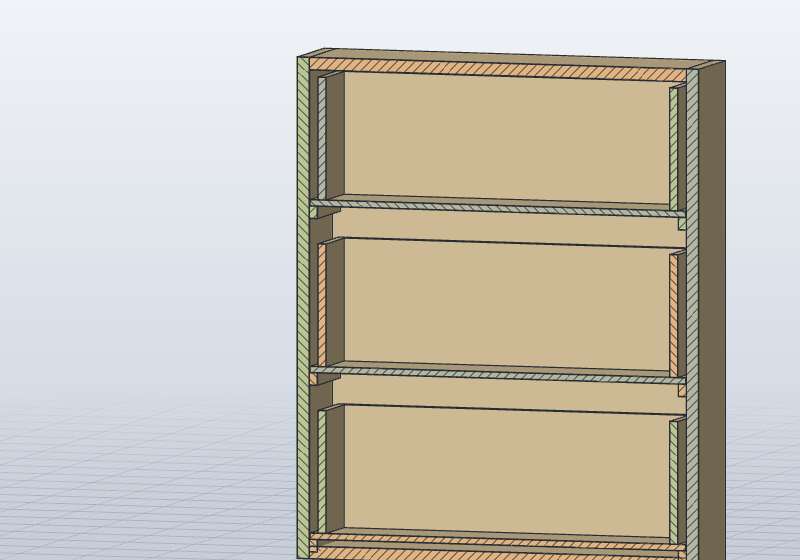
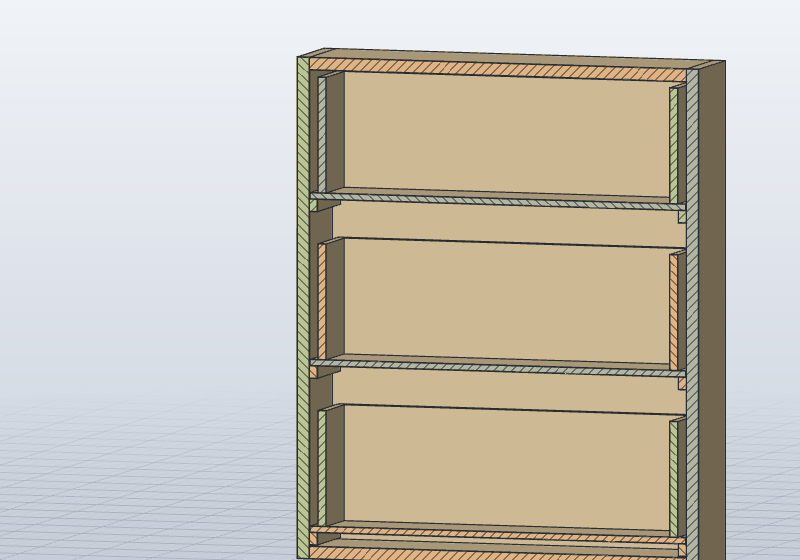
Strip runners: size settings, clear of the carcass bottom, play checked, cut list by the last Drawer

Changed region(s): [[0.375, 0.9107, 0.875, 1.0], [0.375, 0.6071, 0.875, 0.6982], [0.375, 0.3339, 0.875, 0.425]]

diff --git a/src/cutlist/tests.rs b/src/cutlist/tests.rs
@@ -815,3 +815,50 @@ fn glass_panes_are_bought_by_size() {
         json!([{"item": "Glass, 4 mm, 612 x 492 mm", "qty": 1}])
     );
 }
+
+#[test]
+fn drawers_on_strips_or_runners_count_no_slides() {
+    let named =
+        |names: &[&str]| -> Vec<Value> { names.iter().map(|n| json!({"name": n})).collect() };
+    let pairs = |list: &Value| -> u64 {
+        (list.as_array().into_iter().flatten())
+            .filter(|h| h["item"] == "Drawer slide, pair")
+            .filter_map(|h| h["qty"].as_u64())
+            .sum()
+    };
+    // A's drawer 1 on strips, drawer 2 on slides; a cabinet named with ` Drawer ` in it too
+    let bodies = named(&[
+        "A Drawer 1 Front",
+        "A Side L strip 1",
+        "A Drawer 2 Front",
+        "B Drawer C Drawer 1 Front",
+        "B Drawer C Side L strip 1",
+    ]);
+    let list = hardware(
+        &json!({"bodies": bodies}),
+        &BTreeMap::new(),
+        &json!({"timeline": []}),
+    );
+    assert_eq!(pairs(&list), 1, "{list}");
+    // without the strip it counts again
+    let bodies = named(&["A Drawer 1 Front"]);
+    assert_eq!(
+        pairs(&hardware(
+            &json!({"bodies": bodies}),
+            &BTreeMap::new(),
+            &json!({"timeline": []})
+        )),
+        1
+    );
+    // a groove (dado runners) is a feature, also under such a name
+    let design = json!({"timeline": named(&["B Drawer C Side L runner 1"])});
+    let bodies = named(&["B Drawer C Drawer 1 Front"]);
+    assert_eq!(
+        pairs(&hardware(
+            &json!({"bodies": bodies}),
+            &BTreeMap::new(),
+            &design
+        )),
+        0
+    );
+}

diff --git a/tests/test_fronts.py b/tests/test_fronts.py
@@ -351,6 +351,8 @@ def test_strip_runners(approval):
     assert (round(bottom[0], 3), round(bottom[3], 3)) == (-300 + 19, 300 - 19), bottom
     assert round(left[0], 3) == -300 + 18 + 13 and round(left[2], 3) == round(bottom[5], 3), left
     assert round(b["Cabinet Side R strip 2"][3], 3) == 300 - 18, b["Cabinet Side R strip 2"]
+    # the lowest strip stands on the carcass bottom, not in it; the box's top is as on slides
+    assert strip[2] >= b["Cabinet Bottom"][5] - 0.01, (strip, b["Cabinet Bottom"])
     # no groove is cut in the sides
     assert not [f["name"] for f in results[4]["timeline"] if " runner " in f["name"]], "grooves"
     assert not [n for n in boxes(results[2], models=True) if n.startswith("HW slide")], "slide models"
@@ -358,6 +360,13 @@ def test_strip_runners(approval):
     assert not [h for h in cutlist["hardware"] if "slide" in h["item"].lower()], cutlist["hardware"]
     parts = [n for p in cutlist["parts"] for n in p["parts"]]
     assert "Cabinet Side L strip 1" in parts and "Cabinet Side R strip 2" in parts, parts
+    # the strips' size from Woodwork settings: 15 x 22 mm, the box 15 + 1 mm clear of each side
+    other = designed(approval, {"slide_type": "strips", "strip_thickness": 15, "strip_height": 22}, [
+        plugin(approval, "cabinet", {"drawers": 1}), MEASURE])
+    b = boxes(other[1])
+    strip = b["Cabinet Side L strip 1"]
+    assert (round(strip[3] - strip[0], 3), round(strip[5] - strip[2], 3)) == (15, 22), strip
+    assert round(b["Cabinet Drawer 1 Left"][0], 3) == -300 + 18 + 16, b["Cabinet Drawer 1 Left"]
 
 
 def test_a_cabinet_sized_by_its_drawers_inside(approval):

diff --git a/src/cutlist/mod.rs b/src/cutlist/mod.rs
@@ -216,11 +216,13 @@ pub fn hardware(measure: &Value, local: &BTreeMap<String, [f64; 3]>, design: &Va
     }
     // a drawer on wooden runners (`<Name> Side L runner <n>`) or strips (`<Name> Side L strip
     // <n>`, a body) has no slides
+    // (split at the last ` Drawer `, as a cabinet's own name may hold one)
     let runners = |b: &String| {
-        let runner = b.replacen(" Drawer ", " Side L runner ", 1);
-        let strip = b.replacen(" Drawer ", " Side L strip ", 1);
-        features.contains(&runner.trim_end_matches(" Front").to_string())
-            || bodies.contains(&strip.trim_end_matches(" Front").to_string())
+        let Some((cabinet, n)) = b.trim_end_matches(" Front").rsplit_once(" Drawer ") else {
+            return false;
+        };
+        features.contains(&format!("{cabinet} Side L runner {n}"))
+            || bodies.contains(&format!("{cabinet} Side L strip {n}"))
     };
     let drawers = |b: &&String| b.contains(" Drawer ") && b.ends_with(" Front") && !runners(b);
     let counts = [

diff --git a/src/cabinet/tests.rs b/src/cabinet/tests.rs
@@ -1210,8 +1210,22 @@ fn strip_runners_carry_the_bottom_on_a_strip_on_each_side() {
         .any(|c| c.1["name"].as_str().is_some_and(|n| n.contains(" runner "))));
     // no slide holes or models
     assert!(!commands.iter().any(|c| c.1.to_string().contains("HW_")));
-    // strips too thin are refused
+    // the bottom goes up by the strip's height less BOX_CLEAR, so the strip clears what is below
+    let rise = "max(0 mm, Cabinet_strip_height - 8 mm)";
+    assert!(
+        bottom["corner"][2].as_str().unwrap().contains(rise),
+        "{}",
+        bottom["corner"]
+    );
+    assert!(
+        left["height"].as_str().unwrap().contains(rise),
+        "{}",
+        left["height"]
+    );
+    // strips too thin are refused, and play that leaves the bottom nothing to bear on
     assert!(build(&json!({"drawers": 1, "slide_type": "strips", "strip_thickness": 3})).is_err());
+    let bare = json!({"drawers": 1, "slide_type": "strips", "runner_play": 12});
+    assert!(build(&bare).is_err());
 }
 
 #[test]

diff --git a/src/settings/tests.rs b/src/settings/tests.rs
@@ -129,6 +129,21 @@ fn design_fills_new_cabinets_from_the_settings() {
     assert_eq!(p["joints"], "none");
     assert_eq!(p["joints_inner"], "dowels");
     assert_eq!(p["cam_bolt"], 35.0);
+    // the strip runners' sizes (#146): stored, or 12 x 18 mm; box cabinets only
+    assert_eq!(
+        (p["strip_thickness"].as_f64(), p["strip_height"].as_f64()),
+        (Some(12.0), Some(18.0))
+    );
+    let strips = json!({"document": {"settings": {"slide_type": "strips", "strip_thickness": 15, "strip_height": 22}}});
+    let mut p = json!({});
+    design("cabinet", &mut p, &strips);
+    assert_eq!(
+        (p["strip_thickness"].as_f64(), p["strip_height"].as_f64()),
+        (Some(15.0), Some(22.0))
+    );
+    let mut p = json!({});
+    design("corner", &mut p, &strips);
+    assert!(p.get("strip_thickness").is_none(), "{p}");
 }
 
 #[test]

diff --git a/src/cabinet/drawers.rs b/src/cabinet/drawers.rs
@@ -249,6 +249,16 @@ pub fn build(cabinet: &Cabinet) {
             eback.clone(),
             format!("{z} + {lift}"),
         );
+        // On strips the bottom goes up by as much of the strip as `BOX_CLEAR` leaves under it,
+        // so the strip stays clear of the carcass bottom, rail or drawer below; the box's top
+        // stays where it was.
+        let (z, box_h) = match &strip {
+            Some([_, sh]) => {
+                let rise = format!("max(0 mm, {sh} - {})", mm(BOX_CLEAR));
+                (format!("{z} + {rise}"), format!("({box_h} - {rise})"))
+            }
+            None => (z, box_h),
+        };
         // On runners the bottom is under the box, and the box's boards stand on it.
         let (bz, box_h) = match &wood {
             Some(_) => (format!("{z} + {bb}"), format!("({box_h} - {bb})")),

diff --git a/src/settings/mod.rs b/src/settings/mod.rs
@@ -57,6 +57,8 @@ fn table() -> Vec<(&'static str, &'static str, Def, To)> {
         ("back_thickness", "", Length(6.0, 3.175, 50.0), Box),
         ("drawer_thickness", "", Length(12.0, 10.0, 25.0), Box),
         ("drawer_bottom", "", Length(6.0, 3.175, 19.0), Box),
+        ("strip_thickness", "", Length(12.0, 6.0, 30.0), Box),
+        ("strip_height", "", Length(18.0, 10.0, 60.0), Box),
         ("fronts", "", Choice("overlay"), Cabinets),
         ("double_dividers", "", Choice("no"), Box),
         ("handle_position", "", Choice("auto"), Cabinets),
@@ -657,6 +659,8 @@ pub const SECTIONS: [(&str, &[&str]); 7] = [
             "drawer_joints",
             "drawer_front",
             "slide_type",
+            "strip_thickness",
+            "strip_height",
         ],
     ),
     (

diff --git a/src/cabinet/input.rs b/src/cabinet/input.rs
@@ -398,6 +398,12 @@ pub fn read<'a>(kit: &Kit, p: &'a Value) -> Result<Input<'a>, String> {
             || ((6.0..=30.0).contains(&strip[0]) && (10.0..=60.0).contains(&strip[1])),
         "the runner strips must be 6 to 30 mm thick and 10 to 60 mm high",
     )?;
+    // the bottom must bear on the strips: less play than a strip is thick
+    let play = size("runner_play", 1.0)?;
+    check(
+        !strips || drawers == 0.0 || (0.0..strip[0]).contains(&play),
+        "the runner play must be less than the strips are thick",
+    )?;
     // Dado runners (`wood`), and strip runners in the same way but on strips, not in grooves:
     // no slides, no stop.
     let grooved = kind_of == "wood";

diff --git a/docs/usage.md b/docs/usage.md
@@ -231,10 +231,12 @@ needs them. Change one in Parameters and every cabinet's holes follow:
 - **Strip runners** (Slide type Strip runners, #146): the same, for a workshop without a router
   or dado blade. Instead of a groove, a wooden strip (`Name Side L strip 1` and on, 12 mm thick
   and 18 mm high) is screwed to each side under each drawer, from the front of the opening to
-  the back. The drawer's bottom is wider than its box and rests on the strips' tops, and the
-  box stands the strip's thickness plus 1 mm of play clear of each side. Change the sizes in
-  the parameters `Name_strip_thickness` (6 to 30 mm), `Name_strip_height` (10 to 60 mm) and
-  `Name_runner_play`. The strips are boards in the cut list, and no slides are counted. Their
+  the back. The drawer's bottom is wider than its box and rests on the strips' tops, set as much
+  higher as the strip needs to clear what is below it (the box's top stays where it was), and the
+  box stands the strip's thickness plus 1 mm of play clear of each side. **Strip thickness**
+  (6 to 30 mm) and **Strip height** (10 to 60 mm) in Woodwork settings' Drawers set them for new
+  cabinets. After that they are the parameters `Name_strip_thickness` and `Name_strip_height`,
+  next to `Name_runner_play` (less than the strip's thickness). The strips are boards in the cut list, and no slides are counted. Their
   screw holes are not drilled.
 
   ![Strip runners: each drawer's bottom rests on a wooden strip on each side, no groove.](images/strip-runners.png)
@@ -726,7 +728,7 @@ chosen, shown only for it: **Joint spacing**, **Joint edge distance**, **Dowel d
 **Dowel length**, **Dado depth**, **Biscuit size**, **Cam size**, **Cam bolt length**, **Pocket
 face**, **Finger width**, **Finger-joint the bottom too**; see [Joinery at build](#joinery-at-build)) and the hardware (**Hardware models**,
 **Hinge opening**: 95, 110 or 165 degrees, **Slide type**: partial, full, over-travel, dado runners, strip runners or undermount partial or full,
-**Fastener models**; see [Hinges and slides](#hinges-and-slides)), **Drawer box joints** (none or finger joints) and **Drawer front** (separate or integrated with the box). The dialog starts at what is stored, or at the
+**Fastener models**; see [Hinges and slides](#hinges-and-slides)), **Drawer box joints** (none or finger joints) and **Drawer front** (separate or integrated with the box), and with strip runners **Strip thickness** and **Strip height**. The dialog starts at what is stored, or at the
 defaults (dowels inside and out, 250 mm apart, 50 from the edges, 8 x 35 mm dowels, models
 shown, 110 degrees, full extension). Every new cabinet takes them and remembers them: changing
 them later leaves the cabinets made before as they are, and Apply settings gives them the

diff --git a/CLAUDE.md b/CLAUDE.md
@@ -926,7 +926,7 @@ place, ground), so a builder only returns its commands and `Kit`'s summary.
   is the same for every angle. Hinges a door: `fittings::cup_heights`, 2 up to 900 mm, 3 to
   1600, 4 to 2000, 5 above (the first two cups at the ends keep their names). The cup's two
   screw holes (45 apart, 9.5 off its centre) are not cut: 2 commands a cup more.
-  **Strip runners** (`strips`, #146; `Input::strip`, with `runner` for the play): the dado runners' drawer (bottom under a box `2*(strip_t + play)` narrower than the opening, no stop) on `<Side> strip <n>` boards (`<Prefix>_strip_thickness` 12, `_strip_height` 18, parameters only, no field; `edit::SIZES`) under the bottom from `ein`, `eshelf_d` deep, made with `panel` in the cabinet's component; no `runner_depth`. The cut list counts no slides for a drawer whose `Side L strip <n>` body is there; the strips' screw holes are not drilled.
+  **Strip runners** (`strips`, #146; `Input::strip`, with `runner` for the play): the dado runners' drawer (bottom under a box `2*(strip_t + play)` narrower than the opening, no stop) on `<Side> strip <n>` boards (`<Prefix>_strip_thickness` 12, `_strip_height` 18: Woodwork settings' Drawers `strip_thickness`, `strip_height`, `Box`, shown with Slide type Strip runners; then parameters, `edit::SIZES`) under the bottom from `ein`, `eshelf_d` deep (the box's base raised by `max(0, strip_h - BOX_CLEAR)` and the box that much lower, so the strip clears the carcass bottom, rail or drawer below; play less than the strip's thickness), made with `panel` in the cabinet's component; no `runner_depth`. The cut list counts no slides for a drawer whose `Side L strip <n>` body is there; the strips' screw holes are not drilled.
   **Undermount** (`under_partial`, `under_full`; `Input::under`): box inside = opening - 42 mm
   (`21 mm - bt` a side, so `drawer_thickness` over 16 is refused), box as long as the slide
   (`hardware::UNDER`, `under_length` against the inside depth), bottom `UNDER_RECESS` 13 mm up,
